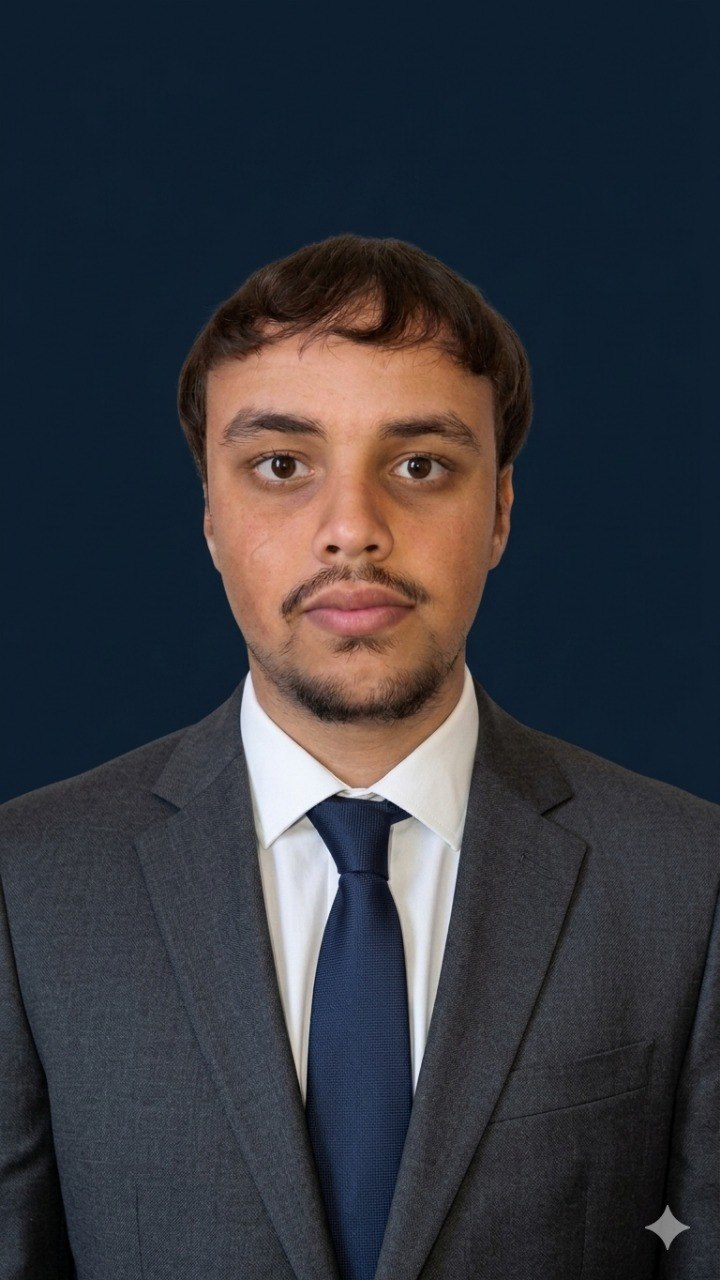
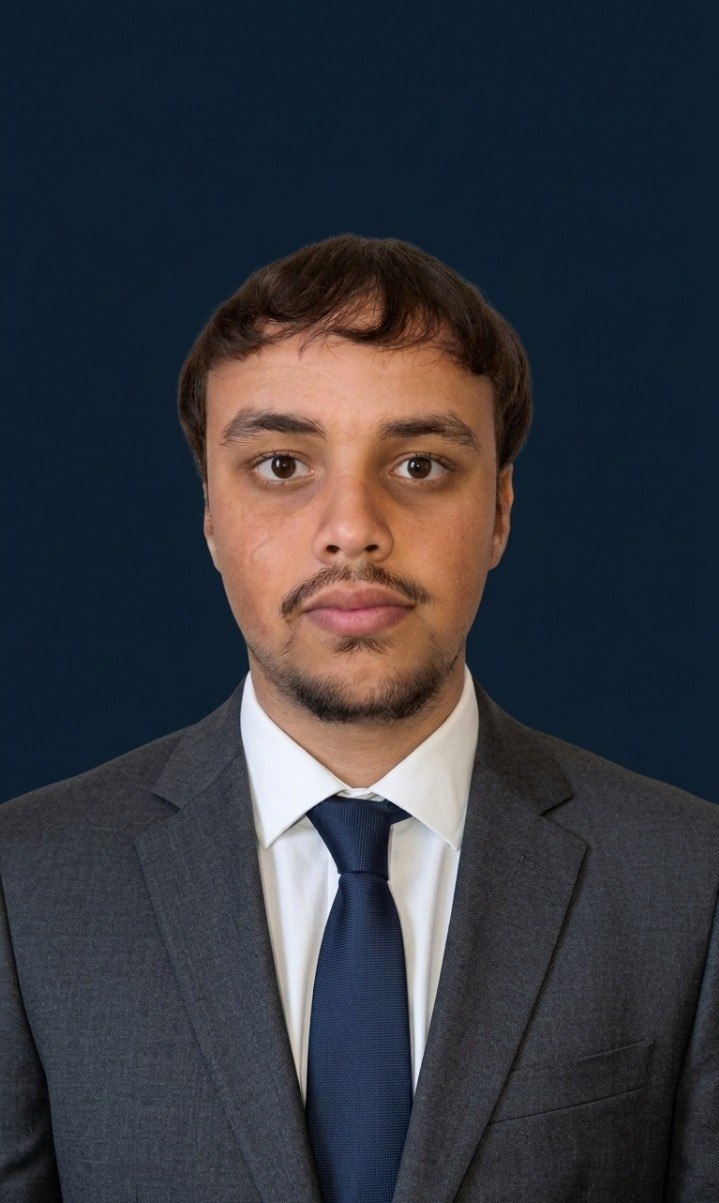
Add files via upload

diff --git a/index.html b/index.html
@@ -58,7 +58,7 @@
             display: flex;
             align-items: center;
             justify-content: space-between;
-            background-color: #0d1c2f;
+            background-color: #0e1c32;
             position: relative;
             padding: 100px 30px 100px 200px;
         }
